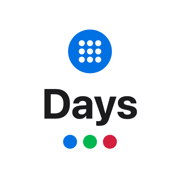
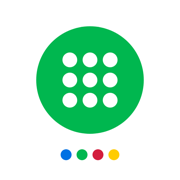
옐로(개나리) 테마 추가, 색 점 4개, 새 홈 화면 아이콘(흰 바탕 + 앱 색 큰 원 + 흰 그림)
Claude-Session: https://claude.ai/code/session_01AAGSzkox3hKXTnKDzvxEBJ

Changed region(s): [[0.1944, 0.1389, 0.8056, 0.8889]]

diff --git a/index.html b/index.html
@@ -15,20 +15,20 @@
     try {
       const s = JSON.parse(localStorage.getItem('ainDays')).settings;
       if (s.theme === 'light' || s.theme === 'dark') document.documentElement.setAttribute('data-theme', s.theme);
-      if (s.accent === 'green' || s.accent === 'red') document.documentElement.setAttribute('data-accent', s.accent);
+      if (s.accent === 'green' || s.accent === 'red' || s.accent === 'yellow') document.documentElement.setAttribute('data-accent', s.accent);
     } catch (e) {}
   </script>
-  <link rel="stylesheet" href="style.css?v=5">
+  <link rel="stylesheet" href="style.css?v=6">
 </head>
 <body>
-  <!-- 시작 화면 (앱을 새로 열 때만, 약 2초): 파란 원이 펼쳐지고 → 점 9개가 하루씩 찍힘 → 이름 → 색 점 3개 (세 앱 공통 순서) -->
+  <!-- 시작 화면 (앱을 새로 열 때만, 약 2초): 파란 원이 펼쳐지고 → 점 9개가 하루씩 찍힘 → 이름 → 색 점 4개 (세 앱 공통 순서) -->
   <div class="splash" id="splash" aria-hidden="true">
     <div class="splash-mark">
       <div class="splash-disc">
         <svg viewBox="0 0 64 64"><circle class="splash-bg" cx="32" cy="32" r="32"/><circle class="splash-stamp" cx="20" cy="20" r="4.4" style="animation-delay:0.50s"/><circle class="splash-stamp" cx="32" cy="20" r="4.4" style="animation-delay:0.56s"/><circle class="splash-stamp" cx="44" cy="20" r="4.4" style="animation-delay:0.62s"/><circle class="splash-stamp" cx="20" cy="32" r="4.4" style="animation-delay:0.68s"/><circle class="splash-stamp" cx="32" cy="32" r="4.4" style="animation-delay:0.74s"/><circle class="splash-stamp" cx="44" cy="32" r="4.4" style="animation-delay:0.80s"/><circle class="splash-stamp" cx="20" cy="44" r="4.4" style="animation-delay:0.86s"/><circle class="splash-stamp" cx="32" cy="44" r="4.4" style="animation-delay:0.92s"/><circle class="splash-stamp" cx="44" cy="44" r="4.4" style="animation-delay:0.98s"/></svg>
       </div>
       <div class="wordmark splash-word"><b>AIN</b> Days</div>
-      <div class="splash-dots"><i></i><i></i><i></i></div>
+      <div class="splash-dots"><i></i><i></i><i></i><i></i></div>
     </div>
   </div>
 
@@ -79,6 +79,7 @@
           <button type="button" data-v="blue"><i class="sw" style="background:#0071E3"></i>블루</button>
           <button type="button" data-v="green"><i class="sw" style="background:#00B74F"></i>그린</button>
           <button type="button" data-v="red"><i class="sw" style="background:#D31E3D"></i>레드</button>
+          <button type="button" data-v="yellow"><i class="sw" style="background:#FFCC00"></i>옐로</button>
         </div></div></div>
         <p class="hint">버튼과 강조 색이 바뀌어요. 이 계정의 모든 기기에 같이 적용돼요.</p>
 
@@ -125,7 +126,7 @@
   <script src="https://www.gstatic.com/firebasejs/10.12.2/firebase-app-compat.js"></script>
   <script src="https://www.gstatic.com/firebasejs/10.12.2/firebase-auth-compat.js"></script>
   <script src="https://www.gstatic.com/firebasejs/10.12.2/firebase-firestore-compat.js"></script>
-  <script src="app.js?v=2"></script>
+  <script src="app.js?v=3"></script>
   <script src="home.js?v=4"></script>
   <script src="detail.js?v=1"></script>
   <script src="report.js?v=1"></script>

diff --git a/style.css b/style.css
@@ -1,4 +1,4 @@
-/* AIN Days 스타일 v4 — 색·크기는 ../ain-todo/plan/design-guide.md(공통 디자인 가이드)를 따른다. 기본 틀은 AIN Cost와 같음 */
+/* AIN Days 스타일 v5 — 색·크기는 ../ain-todo/plan/design-guide.md(공통 디자인 가이드)를 따른다. 기본 틀은 AIN Cost와 같음 */
 
 :root {
   --bg: #F2F2F7;
@@ -78,17 +78,21 @@
   color-scheme: dark;
 }
 
-/* 테마 색 (설정에서 고름, 계정마다 기억): 블루(기본) · 그린(팬톤 7481 C) · 레드
+/* 테마 색 (설정에서 고름, 계정마다 기억): 블루(기본) · 그린(팬톤 7481 C) · 레드 · 옐로
    - 버튼·선택한 날짜는 --primary, 흰 바탕 위 작은 글씨·아이콘은 --primary-text
-   - 그린 버튼의 흰 글씨는 대비 2.66으로 기준(4.5)보다 낮음: 사용자가 고른 색이라 예외 (디자인 가이드 참고) */
+   - 그린 버튼의 흰 글씨는 대비 2.66으로 기준(4.5)보다 낮음: 사용자가 고른 색이라 예외 (디자인 가이드 참고)
+   - 옐로 버튼의 흰 글씨도 대비 1.51로 낮음: 네 테마 버튼을 같게 하려고 사용자가 고른 예외. 라이트의 작은 글씨·아이콘만 진한 황토색 */
 :root[data-accent="green"] { --primary: #00B74F; --primary-text: #007B33; }
 :root[data-accent="red"] { --primary: #D31E3D; --primary-text: #D31E3D; }
+:root[data-accent="yellow"] { --primary: #FFCC00; --primary-text: #8C6500; }
 @media (prefers-color-scheme: dark) {
   :root:not([data-theme="light"])[data-accent="green"] { --primary-text: #00B74F; }
   :root:not([data-theme="light"])[data-accent="red"] { --primary-text: #FF4048; }
+  :root:not([data-theme="light"])[data-accent="yellow"] { --primary-text: #FFCC00; }
 }
 :root[data-theme="dark"][data-accent="green"] { --primary-text: #00B74F; }
 :root[data-theme="dark"][data-accent="red"] { --primary-text: #FF4048; }
+:root[data-theme="dark"][data-accent="yellow"] { --primary-text: #FFCC00; }
 
 * { box-sizing: border-box; }
 html { -webkit-text-size-adjust: 100%; }
@@ -393,10 +397,11 @@ body.locked { overflow: hidden; }
 .splash-word { font-size: 24px; line-height: 1; margin: 0 0 16px; animation: splash-up .5s ease-out 1s both; }
 .splash-dots { display: flex; gap: 7px; }
 .splash-dots i { width: 8px; height: 8px; border-radius: 4px; animation: splash-dot .3s cubic-bezier(.3, 1.6, .5, 1) both; }
-/* 색 점은 세 테마 색 (테마와 상관없이 항상 같음) */
+/* 색 점은 네 테마 색 (테마와 상관없이 항상 같음) */
 .splash-dots i:nth-child(1) { background: #0071E3; animation-delay: 1.3s; }
 .splash-dots i:nth-child(2) { background: #00B74F; animation-delay: 1.4s; }
 .splash-dots i:nth-child(3) { background: #D31E3D; animation-delay: 1.5s; }
+.splash-dots i:nth-child(4) { background: #FFCC00; animation-delay: 1.6s; }
 @keyframes splash-spread { from { transform: scale(.55); opacity: 0; } 40% { opacity: 1; } to { transform: none; opacity: 1; } }
 @keyframes splash-draw { from { stroke-dashoffset: 100; opacity: 0; } 2% { opacity: 1; } to { stroke-dashoffset: 0; opacity: 1; } }
 @keyframes splash-dot { from { transform: scale(0); } to { transform: none; } }

diff --git a/app.js b/app.js
@@ -1,4 +1,4 @@
-// AIN Days 공통 v2: 날짜 도우미, 저장소, 상태, 숫자 계산(연속·%), 화면 모드·테마 색, 아래에서 올라오는 창
+// AIN Days 공통 v3: 날짜 도우미, 저장소, 상태, 숫자 계산(연속·%), 화면 모드·테마 색, 아래에서 올라오는 창
 
 const STORE_KEY = 'ainDays';
 const appEl = document.getElementById('app');
@@ -39,7 +39,7 @@ function weekLabelsHtml() {
 // 순서는 배열 순서 그대로
 let state = {
   habits: [],
-  // theme: light | dark | auto (기기마다), accent: blue | green | red, weekStart: 0 | 1 (계정마다)
+  // theme: light | dark | auto (기기마다), accent: blue | green | red | yellow, weekStart: 0 | 1 (계정마다)
   settings: { theme: 'auto', accent: 'blue', weekStart: 0 }
 };
 
@@ -89,7 +89,7 @@ function applyTheme() {
   const root = document.documentElement;
   if (mode === 'light' || mode === 'dark') root.setAttribute('data-theme', mode);
   else root.removeAttribute('data-theme');
-  if (accent === 'green' || accent === 'red') root.setAttribute('data-accent', accent);
+  if (accent === 'green' || accent === 'red' || accent === 'yellow') root.setAttribute('data-accent', accent);
   else root.removeAttribute('data-accent');
 }
 
